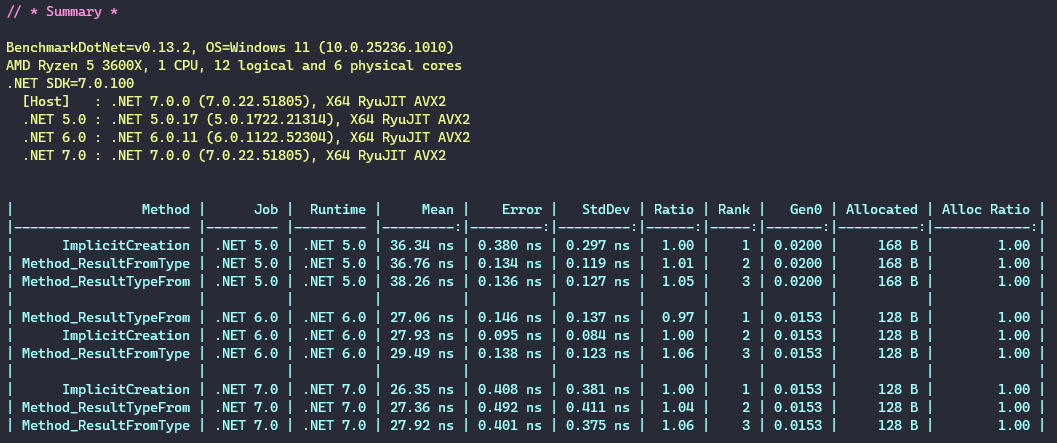
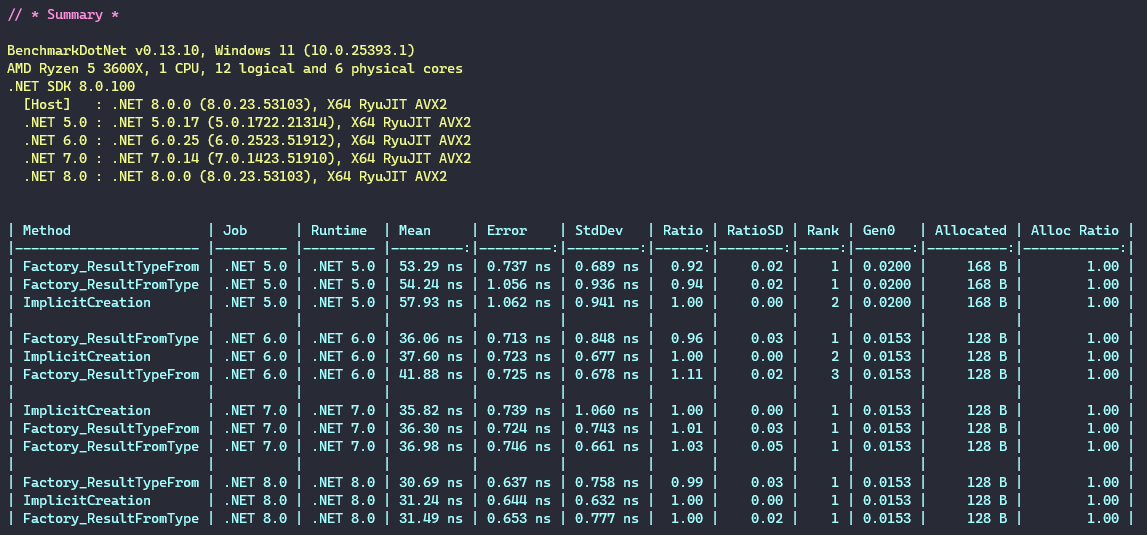
test: Added benchmarks for .NET8

Changed region(s): [[0.0, 0.4108, 0.9991, 0.9977], [0.0, 0.0587, 0.4371, 0.3815], [0.0, 0.0, 0.1249, 0.0587]]

diff --git a/tests/PowerUtils.Results.Benchmarks/Program.cs b/tests/PowerUtils.Results.Benchmarks/Program.cs
@@ -1,7 +1,7 @@
 using BenchmarkDotNet.Running;
 using PowerUtils.Results.Benchmarks.Tests;
 
-BenchmarkRunner.Run<CreatingValueResultBenchmarks>();
+//BenchmarkRunner.Run<CreatingValueResultBenchmarks>();
 
 //BenchmarkRunner.Run<CreatingErrorVoidResultBenchmarks>();
 //BenchmarkRunner.Run<CreatingErrorValueResultBenchmarks>();
@@ -12,4 +12,4 @@ BenchmarkRunner.Run<CreatingValueResultBenchmarks>();
 //BenchmarkRunner.Run<TupleVsResultBenchmarks>();
 
 
-//BenchmarkRunner.Run<CreatingVoidSuccessResultBenchmarks>();
+BenchmarkRunner.Run<CreatingVoidSuccessResultBenchmarks>();

diff --git a/tests/PowerUtils.Results.Benchmarks/Tests/CreatingErrorValueResultBenchmarks.cs b/tests/PowerUtils.Results.Benchmarks/Tests/CreatingErrorValueResultBenchmarks.cs
@@ -8,6 +8,7 @@ namespace PowerUtils.Results.Benchmarks.Tests
     [SimpleJob(RuntimeMoniker.Net50)]
     [SimpleJob(RuntimeMoniker.Net60)]
     [SimpleJob(RuntimeMoniker.Net70)]
+    [SimpleJob(RuntimeMoniker.Net80)]
     [MemoryDiagnoser]
     [Orderer(SummaryOrderPolicy.FastestToSlowest)]
     [RankColumn]

diff --git a/tests/PowerUtils.Results.Benchmarks/Tests/CreatingErrorVoidResultBenchmarks.cs b/tests/PowerUtils.Results.Benchmarks/Tests/CreatingErrorVoidResultBenchmarks.cs
@@ -7,6 +7,7 @@ namespace PowerUtils.Results.Benchmarks.Tests
     [SimpleJob(RuntimeMoniker.Net50)]
     [SimpleJob(RuntimeMoniker.Net60)]
     [SimpleJob(RuntimeMoniker.Net70)]
+    [SimpleJob(RuntimeMoniker.Net80)]
     [MemoryDiagnoser]
     [Orderer(SummaryOrderPolicy.FastestToSlowest)]
     [RankColumn]

diff --git a/tests/PowerUtils.Results.Benchmarks/Tests/CreatingValueResultBenchmarks.cs b/tests/PowerUtils.Results.Benchmarks/Tests/CreatingValueResultBenchmarks.cs
@@ -8,6 +8,7 @@ namespace PowerUtils.Results.Benchmarks.Tests
     [SimpleJob(RuntimeMoniker.Net50)]
     [SimpleJob(RuntimeMoniker.Net60)]
     [SimpleJob(RuntimeMoniker.Net70)]
+    [SimpleJob(RuntimeMoniker.Net80)]
     [MemoryDiagnoser]
     [Orderer(SummaryOrderPolicy.FastestToSlowest)]
     [RankColumn]

diff --git a/tests/PowerUtils.Results.Benchmarks/Tests/CreatingVoidSuccessResultBenchmarks.cs b/tests/PowerUtils.Results.Benchmarks/Tests/CreatingVoidSuccessResultBenchmarks.cs
@@ -7,6 +7,7 @@ namespace PowerUtils.Results.Benchmarks.Tests
     [SimpleJob(RuntimeMoniker.Net50)]
     [SimpleJob(RuntimeMoniker.Net60)]
     [SimpleJob(RuntimeMoniker.Net70)]
+    [SimpleJob(RuntimeMoniker.Net80)]
     [MemoryDiagnoser]
     [Orderer(SummaryOrderPolicy.FastestToSlowest)]
     [RankColumn]

diff --git a/tests/PowerUtils.Results.Benchmarks/Tests/FactoryResultFromErrorOrValueBenchmarks.cs b/tests/PowerUtils.Results.Benchmarks/Tests/FactoryResultFromErrorOrValueBenchmarks.cs
@@ -9,6 +9,7 @@ namespace PowerUtils.Results.Benchmarks.Tests
     [SimpleJob(RuntimeMoniker.Net50)]
     [SimpleJob(RuntimeMoniker.Net60)]
     [SimpleJob(RuntimeMoniker.Net70)]
+    [SimpleJob(RuntimeMoniker.Net80)]
     [MemoryDiagnoser]
     [Orderer(SummaryOrderPolicy.FastestToSlowest)]
     [RankColumn]

diff --git a/tests/PowerUtils.Results.Benchmarks/Tests/TupleVsResultBenchmarks.cs b/tests/PowerUtils.Results.Benchmarks/Tests/TupleVsResultBenchmarks.cs
@@ -9,6 +9,7 @@ namespace PowerUtils.Results.Benchmarks.Tests
     [SimpleJob(RuntimeMoniker.Net50)]
     [SimpleJob(RuntimeMoniker.Net60)]
     [SimpleJob(RuntimeMoniker.Net70)]
+    [SimpleJob(RuntimeMoniker.Net80)]
     [MemoryDiagnoser]
     [Orderer(SummaryOrderPolicy.FastestToSlowest)]
     [RankColumn]
